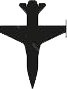
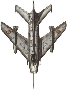
적이미지 수정

diff --git a/flying_Airplane_main.py b/flying_Airplane_main.py
@@ -75,7 +75,7 @@ def runGame():
     BG_X = 0
     BG_X2 = -BG_height
     # 적, 방해물 위치 지정
-    enemy_x = random.randrange(0,width)
+    enemy_x = random.randrange(0,width-67)
     enemy_y = -67
     fire_x = random.randrange(0,width)
     fire_y = -140
